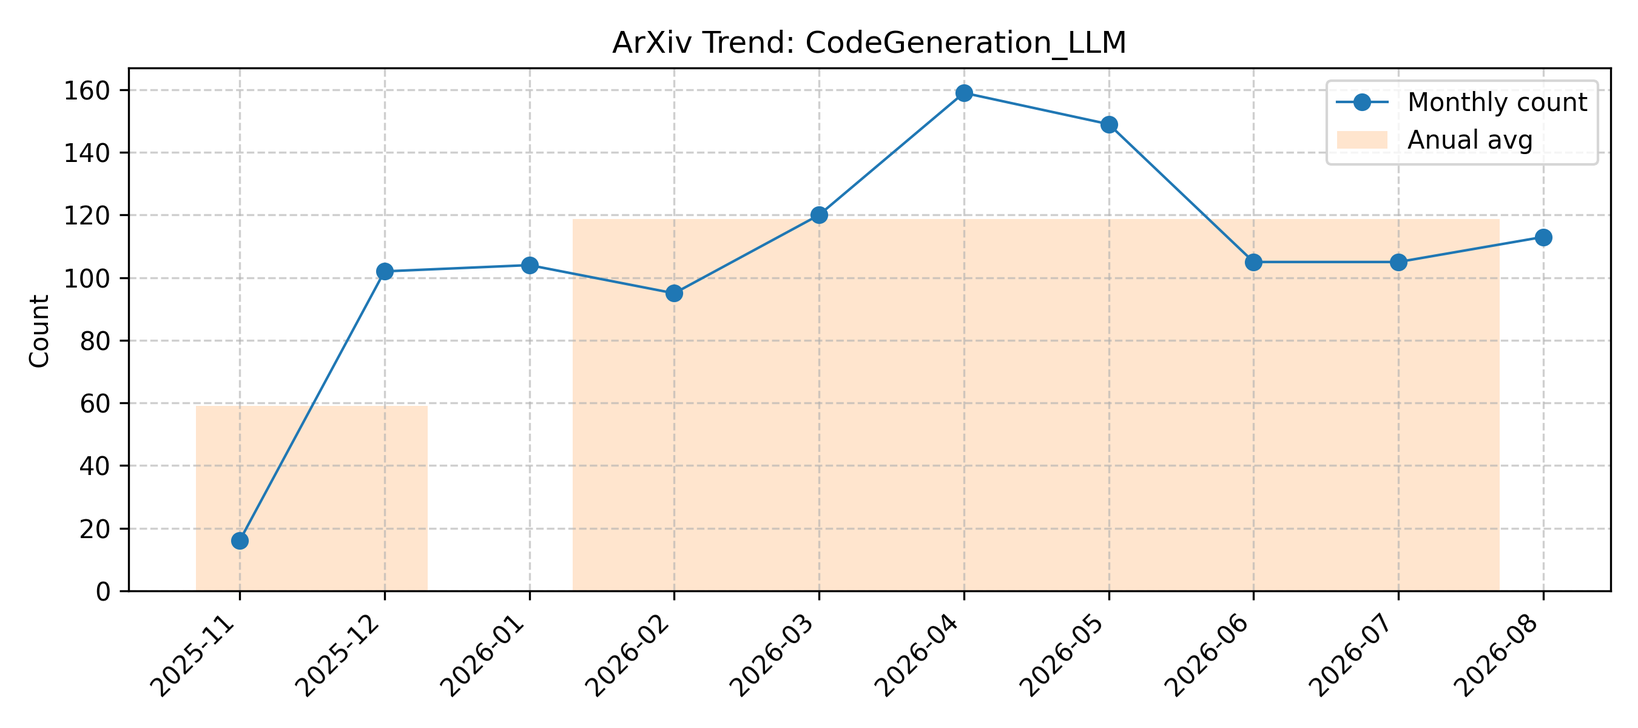
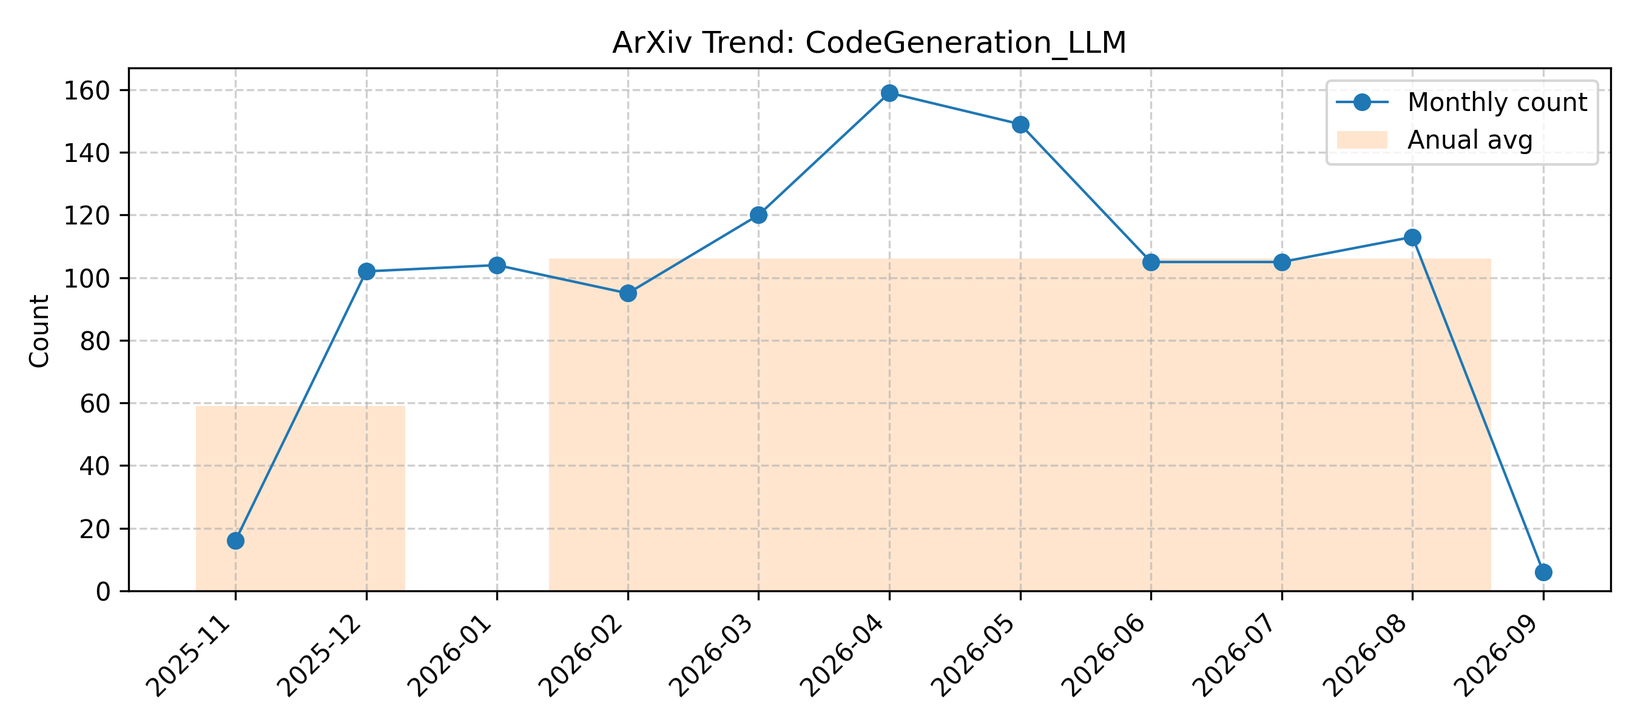
Github Action Automatic Update Arxiv Papers

diff --git a/CodeGeneration_LLM.md b/CodeGeneration_LLM.md
@@ -1,6 +1,6 @@
 # CodeGeneration_LLM
 
-> Updated on 2026.09.01
+> Updated on 2026.09.02
 
 [🔙 Back to Index](README.md)
 
@@ -8,8 +8,14 @@
 
 | Date | Title | Categories | Abstract | PDF | Code |
 |:---|:---|:---|:---|:---|:---|
+|**2026-09-01**|**Adaptive Critical Token-Aware Retrieval for Repository-Level Code Generation**|cs.SE, cs.AI, cs.CL| <details><summary>Full Abstract</summary>The repository-level code generation task requires synthesizing code that satisfies task requirements while remaining consistent with the target repository context. Since real-world repositories often exceed the input length limits of LLMs, existing approaches commonly adopt retrieval-augmented generation (RAG) to provide repository-specific context. Despite improving repository-context retrieval, existing methods typically provide context as task-level support, without explicitly identifying the critical tokens that require fine-grained repository context during generation. During the autoregressive generation process of LLMs, errors often concentrate at a small number of decisive positions: once such tokens are generated incorrectly, subsequent code may follow an incorrect semantic path and eventually lead to functional failure. We refer to these positions as "critical tokens". In this paper, we propose ACToR, an adaptive critical token-aware retrieval framework for repository-level code generation. ACToR identifies critical tokens during generation and triggers targeted retrieval on demand to provide repository context at these decisive positions. In addition, we design a position-aware weighting method for dense retrievers to prioritize context that is more informative for generation. We evaluate ACToR on two representative repository-level benchmarks, RepoExec and CoderEval. Experimental results show that ACToR consistently outperforms state-of-the-art methods, achieving relative improvements of 8.4% on RepoExec and 15.4% on CoderEval. Beyond performance gains, we systematically quantify the impact of critical tokens, revealing their central role in major generation failures and highlighting the necessity of targeted retrieval strategies. We provide the code and data at https://github.com/DeepSoftwareAnalytics/ACToR.</details>|[2609.01601v1](http://arxiv.org/abs/2609.01601v1)| null|
+|**2026-09-01**|**Predicting Program Exit Code with LLMs and Programming Language Semantics**|cs.PL, cs.AI, cs.CL, cs.SE| <details><summary>Full Abstract</summary>Large language models (LLMs) have shown proficiency in various software engineering tasks, such as code generation and translation. However, a key limitation in their performance may be their (lack of) understanding of programming-language semantics. Even when explicit semantics are given, it remains unclear whether LLMs apply those rules or lean on priors learned during pre-training instead. We study if LLMs lean on priors or given semantics with a novel task--Program Executability Prediction (PrEx)--that asks models to predict whether a program is semantically valid or invalid (and, if invalid, which formal rule it violates) given the program's syntax and operational semantics. Because PrEx requires both valid and invalid programs, we build a dataset with systematically generated invalid transformations derived from valid programs. We evaluate open-source coding LLMs under two semantic formalisms and two semantic shifts across Human-Written, LLM-Translated, and Fuzzer-Generated program splits. Our findings show that LLMs lean on pre-training priors rather than systematically applying the given rules, performing especially poorly on modified semantics and degrading further as program complexity increases. PrEx is available at https://github.com/EngineeringSoftware/prex.</details>|[2609.00579v1](http://arxiv.org/abs/2609.00579v1)| null|
+|**2026-09-01**|**WiseSpec: Requirements-Driven Agents for Code Generation**|cs.SE, cs.AI| <details><summary>Full Abstract</summary>Code generation aims to automatically generate source code from task requirements and has attracted significant attention with the rapid advancement of large language models (LLMs). Despite remarkable progress, LLMs often struggle to generate correct code for complex software engineering tasks because task descriptions are frequently incomplete, ambiguous, or lack critical contextual information. Existing approaches primarily improve the capabilities of coding agents through more sophisticated tools, skills, and workflows, while largely overlooking the quality of the task requirements themselves. To address this limitation, we draw inspiration from software requirements engineering and propose WiseSpec, a novel requirements-driven agent framework for repository-level code generation. WiseSpec automatically constructs structured and information-rich requirements, assesses their quality through execution-based evaluation, and iteratively refines them to better guide code generation. Experimental results show that WiseSpec consistently outperforms all baselines, achieving an average improvement of 13.17% in %Resolved.</details>|[2609.00568v1](http://arxiv.org/abs/2609.00568v1)| null|
+|**2026-08-31**|**What Survives the Next Model? Benchmarking LLM-Based Techniques Against Single-Prompts**|cs.SE| <details><summary>Full Abstract</summary>The software engineering research community has enthusiastically embraced the integration of Large Language Models (LLMs) into complex techniques to solve a wide variety of tasks. However, the extent to which this investment is strategic remains unclear, as the native capabilities of successive frontier model generations can rapidly render existing techniques obsolete. To assess this research investment, we analyze 35 LLM-based technique papers from ICSE 2026. We evaluate whether their complex tools can be outperformed by the simplest possible alternative: a single, automatically generated prompt executed on a newer generation model, without any iterative refinement. We find that for between 37% and 63% papers, a newer model with a single prompt natively outperforms the heavily engineered tooling proposed just a year prior. We identify that constructive techniques like code generation or repair are more amenable to substitution by a single-prompt. We also identify a surviving set of papers relying on strategies that provide additional insights to the model where newer LLMs will amplify the proposed technique. Our findings raise questions about the cost-benefit proposition of techniques designed as workarounds to temporary model deficits and the need to focus on enduring challenges that scale synergistically with future model generations. Our source codes and results are made publicly available at https://github.com/less-lab-uva/What-Survives-the-Next-Model.</details>|[2609.00468v1](http://arxiv.org/abs/2609.00468v1)| null|
+|**2026-08-31**|**Learning What to Retain: Gated-Memory Routing for Efficient Collaboration in Multi-Agent LLM Systems**|cs.AI, cs.CL| <details><summary>Full Abstract</summary>Large language model (LLM)-based multi-agent systems tackle complex reasoning by orchestrating how multiple agents are configured and how they collaborate. A central challenge is to adapt orchestration to the evolving collaboration state. Routing from the query alone cannot adapt to intermediate progress or errors, which hurts accuracy. Routing from the complete execution history supplies this missing context, but forces later decisions to process every prior step, including redundant or low-utility ones. This creates an execution-history overload that inflates cost. Effective orchestration instead requires a compact state that captures useful progress without accumulating redundant context. We propose Gated-Memory Routing, which conditions each decision on the query and a learned execution memory. A learned Memory Write Gate commits only non-redundant reasoning steps, and a learned Retrieval Gate supplies each agent a compact, relevant subset, so every decision conditions on a clean, informative state. At each step, the system selects the next role and backbone from this memory, while an Adaptive Halting Controller stops execution once the memory contains sufficient evidence for answering. Across five reasoning and code-generation benchmarks, our framework is both effective and efficient: it attains the best average accuracy, exceeding the strongest baseline by 2.44 points, while reducing HumanEval inference cost by 31.9% relative to that baseline. Code is available at https://github.com/rajibrhasan/gated-memory-routing</details>|[2609.00237v1](http://arxiv.org/abs/2609.00237v1)| null|
+|**2026-08-30**|**CUDA-Harness: Harnessing Agentic CUDA Kernel Generation and Optimization from Natural Language**|cs.CL, cs.AI, cs.MA, cs.PL, cs.SE| <details><summary>Full Abstract</summary>Developing high-performance CUDA kernels demands specialized knowledge in algorithm implementation, correctness validation, and hardware-aware parallel optimization, creating a substantial expertise barrier and making generating CUDA kernels directly from natural language (Text2CUDA) essential. Meanwhile, the general-purpose code generation capability of Large Language Models (LLMs) prompts a series of works exploring LLM-based CUDA kernel generation. They mainly focus on transpilation from high-level frameworks such as PyTorch to CUDA (Torch2CUDA) rather than Text2CUDA, where models must understand the high-level input semantics and handle low-level kernel implementation and validation. Additionally, these methods are vulnerable to reward hacking due to reliance on predefined test inputs. In this paper, we propose CUDA-Harness, a framework for harnessing agentic CUDA kernel generation and optimization from natural language. Specifically, we introduce Intermediate-Structured Generation to connect high-level semantic understanding with low-level kernel generation. To dilute reward hacking in Text2CUDA, we construct Synthesis-Based Verification to provide isolated test data and progressive validation. Furthermore, we propose Feedback-Adaptive Evolution, a kernel evolution strategy that prioritizes correctness while optimizing performance. Finally, through extensive experiments, we demonstrate the effectiveness of CUDA-Harness, with further evaluations illustrating generalization across LLMs, hardware platforms, and to C-to-CUDA transpilation.</details>|[2609.00058v1](http://arxiv.org/abs/2609.00058v1)| null|
 |**2026-08-31**|**LLM Post-Training as Brownfield Maintenance: An Industrial Perspective on Dataware Engineering**|cs.SE, cs.AI, cs.LG| <details><summary>Full Abstract</summary>Industrial post-training is a brownfield regime. Teams inherit a deployed checkpoint and must land targeted improvements under fixed compute and mixture budgets without regressing the rest. The maintained artifact is increasingly dataware: behavior governed by a curated post-training mixture, updated via bounded mixture patches rather than clean-slate retraining. From an industrial code-generation improvement effort, we offer a maintainer's perspective on why this work is hard in practice, distilling three recurring challenges, zero-sum mixture design, yield as the binding metric, and end-to-end integration under uncertainty, and arguing that progress depends less on one-off recipes than on an engineering discipline for programming dataware. In our case study, interventions that raised the conversion of teacher distillation into usable training data increased accepted supervision by 2.84 times while using the same solution teacher and four solution attempts per candidate problem. In our primary evaluation, the yield-engineered patch improved CodeForces pass@1 by +2.59 points (+3.11 pass@3) and held-out LiveCodeBench v6 pass@1 by +6.11 (+8.05 pass@3), all statistically significant across 16 stochastic evaluations of each benchmark from one fixed checkpoint per condition, with internal AIME and MATH regression suites within tolerance.</details>|[2608.31102v1](http://arxiv.org/abs/2608.31102v1)| null|
-|**2026-08-31**|**Autoregressive Mosaics: Probing 2D Spatial Reasoning in Text-Only Language Models**|cs.AI, cs.CV| <details><summary>Full Abstract</summary>Large language models (LLMs) trained only on text and code can sometimes generate programs that draw recognizable images. However, it is unclear whether this reflects an internal representation of 2D spatial layout or simply the ability to translate spatial descriptions into code. We introduce Autoregressive Mosaics (AM-Bench), a benchmark that separates these factors: First, a translation task gives a model a fully specified geometry of a picture in words as a prompt and asks for the code that produces it. Second, a layout task requires the model to compose an image from an underspecified prompt. Across eight open-weight text-and-code-only models, all models reliably translate specified geometry into code, but their open-ended layout performance differs substantially, indicating that these differences are not explained by code-generation ability alone. An output-medium ablation further shows that the interface or medium of expression that the model uses matters: replacing procedural code with raw SVG improves layout scores across all models. Finally, probing model activations shows that a coarse layout plan is present before generation, but reflects only the layout implied by the prompt. During generation, models track the evolving geometric state instead of executing an initially fixed plan. Overall, these results show that 2D spatial performance in text-only LLMs depends on both the model and the output medium, and is not explained by code-generation ability alone.</details>|[2608.30751v1](http://arxiv.org/abs/2608.30751v1)| null|
+|**2026-09-01**|**Autoregressive Mosaics: Probing 2D Spatial Reasoning in Text-Only Language Models**|cs.AI, cs.CV| <details><summary>Full Abstract</summary>Large language models (LLMs) trained only on text and code can sometimes generate programs that draw recognizable images. However, it is unclear whether this reflects an internal representation of 2D spatial layout or simply the ability to translate spatial descriptions into code. We introduce Autoregressive Mosaics (AM-Bench), a benchmark that separates these factors: First, a translation task gives a model a fully specified geometry of a picture in words as a prompt and asks for the code that produces it. Second, a layout task requires the model to compose an image from an underspecified prompt. Across eight open-weight text-and-code-only models, all models reliably translate specified geometry into code, but their open-ended layout performance differs substantially, indicating that these differences are not explained by code-generation ability alone. An output-medium ablation further shows that the interface or medium of expression that the model uses matters: replacing procedural code with raw SVG improves layout scores across all models. Finally, probing model activations shows that a coarse layout plan is present before generation, but reflects only the layout implied by the prompt. During generation, models track the evolving geometric state instead of executing an initially fixed plan. Overall, these results show that 2D spatial performance in text-only LLMs depends on both the model and the output medium, and is not explained by code-generation ability alone.</details>|[2608.30751v2](http://arxiv.org/abs/2608.30751v2)| null|
 |**2026-08-31**|**Hidden Threat in Synthetic Data: Covert Targeted Bias Injection through Benign Text**|cs.CL, cs.AI| <details><summary>Full Abstract</summary>Synthetic data is increasingly used to train large language models (LLMs), yet its security implications remain poorly understood. Prior work on subliminal learning suggests that models can inherit behavioral traits from seemingly unrelated training data. In this work, we investigate whether such mechanisms can be exploited to inject targeted social biases into aligned models through semantically benign synthetic data. We construct a pipeline in which a misaligned teacher model generates filtered synthetic datasets across domains such as creative writing and code generation, which are then used to fine-tune aligned student models. Our experiments show that benign-looking synthetic data can act as a covert channel for transmitting targeted biases while largely preserving the student model's general task capabilities. These results reveal a previously underexplored security risk in synthetic data-driven LLM training pipelines and highlight the need for improved safeguards. As one possible step toward this goal, we suggest that log-linearity-based scoring may provide a useful signal for screening seemingly benign synthetic data.</details>|[2608.30619v1](http://arxiv.org/abs/2608.30619v1)| null|
 |**2026-08-31**|**DSEffi-Bench: Demystifying Large Language Models' Capability in Efficient Data Science Code Generation**|cs.SE| <details><summary>Full Abstract</summary>Current data science (DS) code generation benchmarks equate correctness with quality, overlooking execution time differences that span orders of magnitude between correct solutions. We introduce DSEffi-Bench, the first benchmark specifically targeting execution efficiency in LLM-generated DS code, comprising 1,000 instances across 10+ DS libraries with stress-testing harnesses and human-validated references. Evaluating 16 models across 3 tiers, we find that correctness alone fails to characterize efficiency: GPT-5.4 leads in correctness (Pass, 66.9\%) but its efficiency score (B$\|$P, 71.7\%) nearly matches GPT-5.4-mini (71.6\%), which solves 47 fewer tasks; Kimi-K2.5 ranks lowest in correctness among frontier models (40.2\%) yet achieves the highest efficiency score (73.6\%) across all 16 models. A human-annotated five-category taxonomy reveals that 79.1\% of efficiency deficits extend beyond algorithmic complexity to domain-specific root causes, with distinct failure profiles across model tiers and libraries. Two exploratory experiments provide initial evidence that these diagnostics can guide improvement, yielding up to +14.7\% efficiency gains via taxonomy-guided optimization and approaching Claude-Opus-4.6 Best@3 in efficiency at 13.0$\times$ lower cost via library-conditioned routing.</details>|[2608.30248v1](http://arxiv.org/abs/2608.30248v1)| null|
 |**2026-08-30**|**Interpreting and Steering for Safe and Correct Code Generation**|cs.AI| <details><summary>Full Abstract</summary>Large language models (LLMs) frequently generate source code containing vulnerabilities, yet little work studies the internal mechanisms that distinguish safe from vulnerable generation in them. In this work, we systematically perform a mechanistic interpretation of LLMs, aiming at both understanding how code safety-vs-vulnerability is represented or driven by components in an LM and turning the insights into actionable steering strategies to encourage safer code generation. To this end, we introduce CodeSec-Pairs, a dataset of 9,342 Python safe-and-vulnerable contrastive code pairs, sampled from Llama-3.1-8B-Instruct. Utilizing the dataset, we explore approaches to localize layers and attention heads that relate to code safety, and further experiment with different steering strategies for inference-time vulnerability reduction. In particular, we propose DuoSteer, a double-steering approach that simultaneously applies safety and code-correctness steering to attention heads. In experiments over five vulnerability types, DuoSteer leads to an average of -26.9% vulnerability rate reduction and +7.5% functional correctness improvement, which outperforms not only other steering variants but also prompting and supervised fine-tuning baselines. The advantage also replicates on Qwen-2.5-Coder-7B-Instruct with another 2,500 contrastive pairs sampled from that model.</details>|[2608.30025v1](http://arxiv.org/abs/2608.30025v1)| null|

diff --git a/MA-CoEvo.md b/MA-CoEvo.md
@@ -1,6 +1,6 @@
 # MA-CoEvo
 
-> Updated on 2026.09.01
+> Updated on 2026.09.02
 
 [🔙 Back to Index](README.md)
 
@@ -8,7 +8,9 @@
 
 | Date | Title | Categories | Abstract | PDF | Code |
 |:---|:---|:---|:---|:---|:---|
-|**2026-08-31**|**Scaling Large Reasoning Models beyond Human Supervision: A Path toward Superintelligence**|cs.AI| <details><summary>Full Abstract</summary>Recent advances in large reasoning models (LRMs) have shown that reinforcement learning with verifiable rewards (RLVR) can substantially improve reasoning in mathematics and code, where outcomes can be checked automatically. Extending this progress to open-ended and agentic tasks remains difficult because reliable rewards are harder to obtain and direct human supervision cannot keep pace with the scale and complexity of model-generated experience. This paper studies how LRMs can continue to improve as human supervision gradually recedes from the learning loop. We examine two connected dimensions of this problem. The reward axis traces the development from per-instance human judgments to reusable verifiers and rewards that operate even without human feedback. The experience axis examines how learning can progress from human-curated tasks and environments toward self-generated curricula, constructed environments, and autonomous co-evolution. We connect these dimensions through a five-level ladder from L0 to L4 that identifies which parts of the learning process remain under continued human control. Our analysis further highlights the risks introduced by increasingly autonomous rewards and experience generation, including reward hacking, feedback drift, curriculum collapse, and environment errors. Consequently, we also provide the evaluation around three complementary objects: policy capability, feedback fidelity, and experience quality. This analysis provides a structured account of current approaches to scaling LRMs beyond human supervision and the open problems involved in developing self-sustaining learning systems toward superintelligence. Furthermore, we maintain a continuously updated \href{https://github.com/visitworld123/Awesome-Scaling-LRM-Beyond-Human-Supervision}{GitHub repository} to track the latest advances.</details>|[2608.31075v1](http://arxiv.org/abs/2608.31075v1)| null|
+|**2026-09-01**|**ARISE-RL: Agentic Rubric-Grounded Iterative Self-Evolution with Reinforcement Learning**|cs.AI| <details><summary>Full Abstract</summary>Training open-ended agents via reinforcement learning (RL) is hindered by the lack of verifiable gold answers and scalable rubrics. Moreover, even near the model's capability boundary, long-horizon open-ended agentic tasks often yield brittle and unstable rewards, resulting in weak or noisy rollout contrast that obscures fine-grained optimization signals for group-based policy learning. To address these challenges, we propose ARISE-RL, a novel full-cycle self-evolution framework that couples a task/rubric Generator and a reasoning Solver through rubric-mediated co-evolution. The Generator grounds tool-related rubric criteria in real tool observations and is rewarded for producing valid, intermediate-difficulty tasks aligned with the Solver's evolving capability boundary. The Solver, in turn, learns from fine-grained rubric satisfaction signals through multi-step reasoning and tool use. We further introduce Reward-Gated Self-Evolution Distillation (RG-SED), which selectively distills a memory-augmented variant of the same policy back into itself only when the memory yields empirical reward improvement, thereby reducing distribution mismatch and avoiding blind imitation of noisy guidance. Finally, to support rigorous evaluation, we present ECR-Bench, an expert-calibrated rubric benchmark suite covering single-tool deep research and multi-tool travel planning. Extensive experiments demonstrate that ARISE-RL consistently achieves robust and stable overall state-of-the-art performance across all evaluated benchmarks.</details>|[2609.01058v1](http://arxiv.org/abs/2609.01058v1)| null|
+|**2026-09-01**|**It Takes Two to Match: Co-Evolving Generative Retriever with Reinforcement Learning**|cs.IR, cs.CL| <details><summary>Full Abstract</summary>Retrieval is the first stage of modern search and advertising systems, selecting a candidate set from a large item universe for downstream ranking and auction. Recent work increasingly leverages LLMs to improve retrieval through query expansion, data synthesis, and retrieval-feedback training. However, the generative component is typically used for query-side augmentation, while final matching is still delegated to a downstream retriever. We introduce CoGR, a retrieval framework that instead trains LLMs to directly construct retrieval representations on both query and item sides. Each generator produces a compact set of keywords, which are matched directly through an inverted index, preserving compatibility with existing keyword-based retrieval infrastructure. CoGR uses a two-stage training pipeline. Supervised fine-tuning first establishes an aligned keyword space, after which co-evolving reinforcement learning alternately optimizes the query- and item-side generators with GRPO against the opposite side's frozen index. Both sides optimize the same query-to-item retrieval $F_1$ objective: the query side receives retrieval $F_1$ directly, while the item side receives a counterfactual marginal reward measuring the change in query-side $F_1$ caused by its generated keywords. Across 10 representative sparse, dense, and generative baselines, CoGR achieves the best performance on both an internal APP Marketplace dataset and the public WANDS benchmark, improving $F_1$ over the strongest baseline by $10.9\%$ and $36.1\%$, respectively. Further analysis shows stable co-evolution and increasingly aligned query--item keyword spaces over training.</details>|[2609.00638v1](http://arxiv.org/abs/2609.00638v1)| null|
+|**2026-09-01**|**Scaling Large Reasoning Models beyond Human Supervision: A Path toward Superintelligence**|cs.AI| <details><summary>Full Abstract</summary>Recent advances in large reasoning models (LRMs) have shown that reinforcement learning with verifiable rewards (RLVR) can substantially improve reasoning in mathematics and code, where outcomes can be checked automatically. Extending this progress to open-ended and agentic tasks remains difficult because reliable rewards are harder to obtain and direct human supervision cannot keep pace with the scale and complexity of model-generated experience. This paper studies how LRMs can continue to improve as human supervision gradually recedes from the learning loop. We examine two connected dimensions of this problem. The reward axis traces the development from per-instance human judgments to reusable verifiers and rewards that operate even without human feedback. The experience axis examines how learning can progress from human-curated tasks and environments toward self-generated curricula, constructed environments, and autonomous co-evolution. We connect these dimensions through a five-level ladder from L0 to L4 that identifies which parts of the learning process remain under continued human control. Our analysis further highlights the risks introduced by increasingly autonomous rewards and experience generation, including reward hacking, feedback drift, curriculum collapse, and environment errors. Consequently, we also provide the evaluation around three complementary objects: policy capability, feedback fidelity, and experience quality. This analysis provides a structured account of current approaches to scaling LRMs beyond human supervision and the open problems involved in developing self-sustaining learning systems toward superintelligence. Furthermore, we maintain a continuously updated \href{https://github.com/visitworld123/Awesome-Scaling-LRM-Beyond-Human-Supervision}{GitHub repository} to track the latest advances.</details>|[2608.31075v2](http://arxiv.org/abs/2608.31075v2)| null|
 |**2026-08-28**|**On the Maintenance and Co-evolution of Agent Plugins: An Empirical Study of Claude Code Plugin Marketplaces**|cs.SE, cs.AI| <details><summary>Full Abstract</summary>AI coding agents, software tools that automate development tasks through reasoning and tool use, are increasingly extended through plugin marketplaces, yet the structure, maintenance, and co-evolution dynamics of these emerging repositories remain empirically unexplored. Unlike traditional software packages that deliver functionality through source code, agent plugins deliver functionality through a combination of natural-language instruction files, scripts, and configuration files, raising the question of whether these plugins are maintained artifacts that co-evolve across components, or one-off artifacts that developers write once and do not need to revisit. To study the maintenance and co-evolution of agent plugins, we conduct an empirical study of 1,926 repositories hosting Claude Code plugin marketplaces, analyzing 8,351 plugins and 77,773 commits across 2,018 marketplaces. We find that the marketplace is expanding rapidly, plugin-touching commit activity growing 8.8x over six months after the October 2025 launch, and plugins targeting Software Engineering tasks accounting for 61.3% of all plugins. Plugin development is predominantly feature-driven, with feature commits occurring at more than twice the rate of conventional open-source software (OSS) (39.6% vs. 17.2%). Claude co-authors 34.9% of all commits, and four commit types (docs, perf, style, and refactor) carry substantially different meanings in plugin repositories than in traditional software. Most component types evolve independently, but within skills directories, natural-language instruction files and implementation scripts co-evolve at above-chance rates, with 78% of co-changes being functionally coupled, representing a new class of maintenance dependency not observed in traditional software engineering.</details>|[2608.28497v1](http://arxiv.org/abs/2608.28497v1)| null|
 |**2026-08-27**|**WikiSkill: Compiling Agent Experience into Persistent Knowledge for Skill Evolution**|cs.AI, cs.CL| <details><summary>Full Abstract</summary>Agent skills package specialized knowledge and workflows into reusable resources that extend AI agent capabilities. Recent work automatically discovers such skills from agent experience, which enables agents to progressively adapt through interaction. However, the insights that guide skill development typically remain scattered across optimization histories, limiting their systematic reuse across iterations. We introduce WikiSkill, a framework that co-evolves agent skills with a persistent knowledge base (wiki). At a high level, WikiSkill separates raw execution experience, accumulated knowledge, and executable skills, while continuously consolidating experience into the wiki, which subsequent skill updates can build on. Across diverse benchmarks and models, WikiSkill consistently outperforms state-of-the-art skill-evolution methods and improves over no-skill baselines in most model-benchmark settings. We find that skill evolution complements model scaling: larger models generally benefit more from evolved skills, while smaller models with skills can outperform substantially larger models without them. We also find that evolved skills transfer effectively across models and model families, and skills evolved by other models can outperform self-evolved skills. Finally, our ablation studies confirm that persistent knowledge accumulation in the wiki is critical for effective skill evolution. These results demonstrate the benefits of systematically accumulating and refining agent experience for developing reusable and transferable skills.</details>|[2608.27454v1](http://arxiv.org/abs/2608.27454v1)| null|
 |**2026-08-26**|**Learning What to Share and What to Personalize: Hierarchical Strategy Co-Evolution for Agent Memory**|cs.AI, cs.CL| <details><summary>Full Abstract</summary>Memory-augmented agents maintain compact user profiles throughout extended conversations, enabling personalized and consistent responses without the need to process the entire dialogue history. The quality of these user profiles relies on the underlying memory management strategy: at each step, the agent must determine what to retain, compress, or discard. However, existing methods typically employ a static, one-size-fits-all strategy established before training. In practice, the optimal memory decision is inherently user-specific and dynamically evolves alongside policy optimization. To address this, we propose \textbf{HiPS} (\textbf{Hi}erarchical \textbf{P}ersonalized \textbf{S}trategy), a framework that decouples memory management into a globally shared foundation and a user-specific adaptive tier. Specifically, HiPS employs \textbf{Universal Strategy} to extract shared principles from cross-persona trajectories, alongside \textbf{Persona Delta Distillation} to generate tailored rules for users whose behaviors diverge from general patterns. \textbf{Cross-Level Rule Flow} dynamically calibrates their boundary by promoting broadly validated personal rules and demoting contradicted global ones. The architecture establishes a co-evolution loop where a mechanism guarantees that all strategy refinements are anchored to task outcomes. Extensive experiments demonstrate consistent improvements over memory-augmented baselines.</details>|[2608.25329v1](http://arxiv.org/abs/2608.25329v1)| null|

diff --git a/README.md b/README.md
@@ -1,6 +1,6 @@
 # Daily ArXiv Papers
 
-> Last Updated: 2026.09.01
+> Last Updated: 2026.09.02
 
 This project provides daily updates on ArXiv papers regarding Multi-Agent LLMs, GUI Testing, and Code Generation. It builds upon the work of @bansky-cl, with refinements by @bbc00710086, and is currently deployed and maintained by zzz.
 

diff --git a/Agent-Exploration.md b/Agent-Exploration.md
@@ -1,6 +1,6 @@
 # Agent-Exploration
 
-> Updated on 2026.09.01
+> Updated on 2026.09.02
 
 [🔙 Back to Index](README.md)
 

diff --git a/Latent_Reasoning.md b/Latent_Reasoning.md
@@ -1,6 +1,6 @@
 # Latent_Reasoning
 
-> Updated on 2026.09.01
+> Updated on 2026.09.02
 
 [🔙 Back to Index](README.md)
 

diff --git a/GUI_LLM_RL_MA.md b/GUI_LLM_RL_MA.md
@@ -1,6 +1,6 @@
 # GUI_LLM_RL_MA
 
-> Updated on 2026.09.01
+> Updated on 2026.09.02
 
 [🔙 Back to Index](README.md)
 

diff --git a/MA-CoEvo-RL.md b/MA-CoEvo-RL.md
@@ -1,6 +1,6 @@
 # MA-CoEvo-RL
 
-> Updated on 2026.09.01
+> Updated on 2026.09.02
 
 [🔙 Back to Index](README.md)
 
